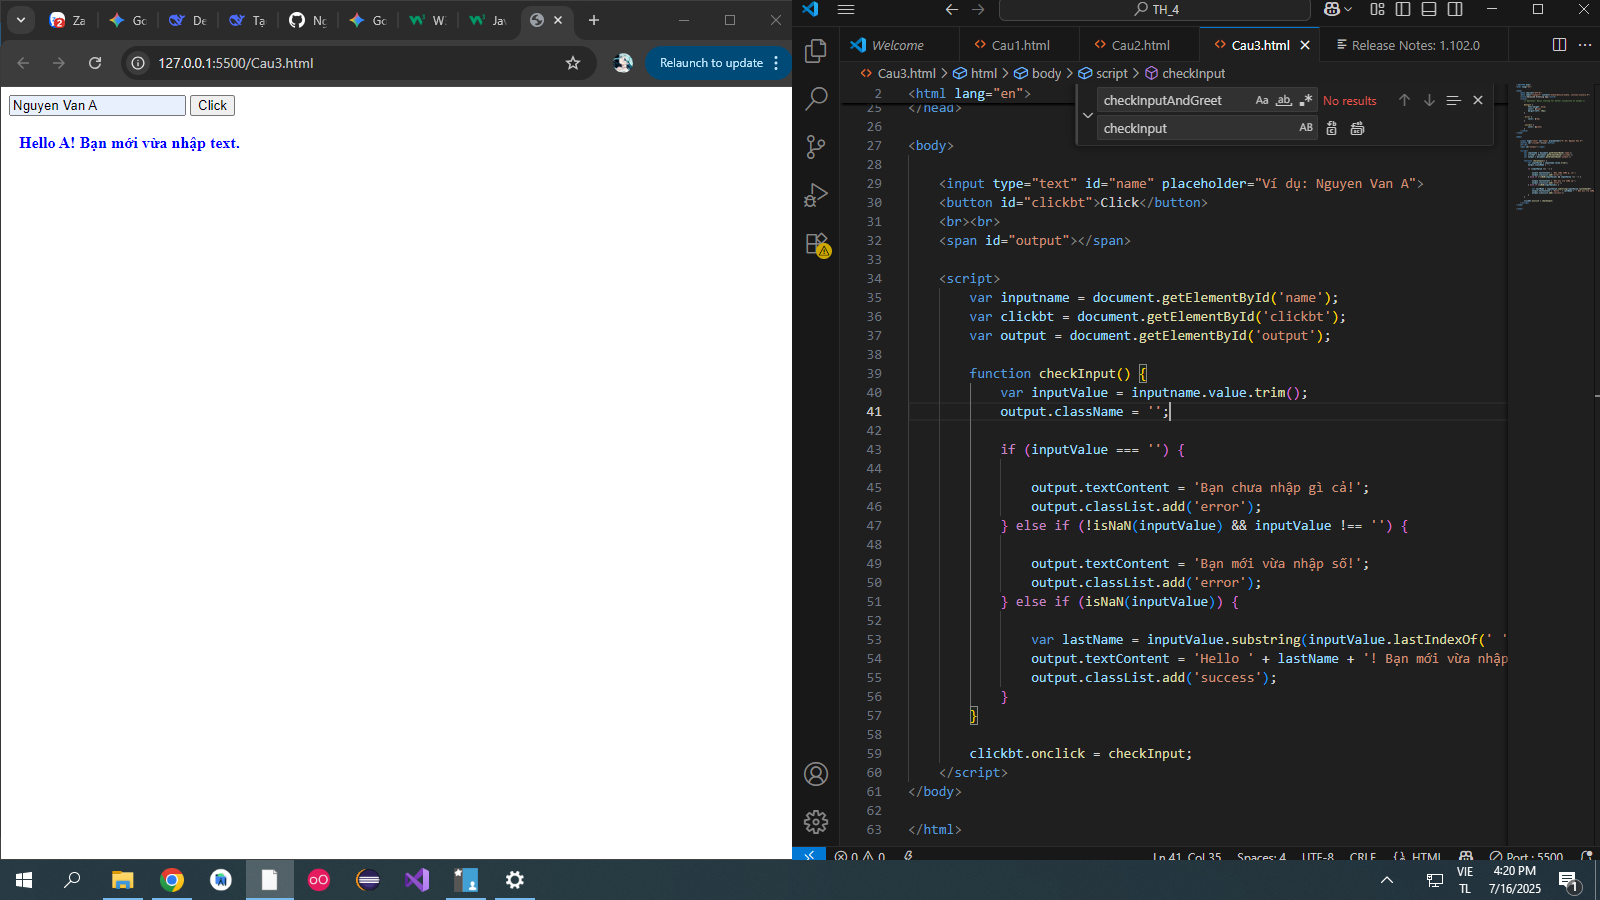
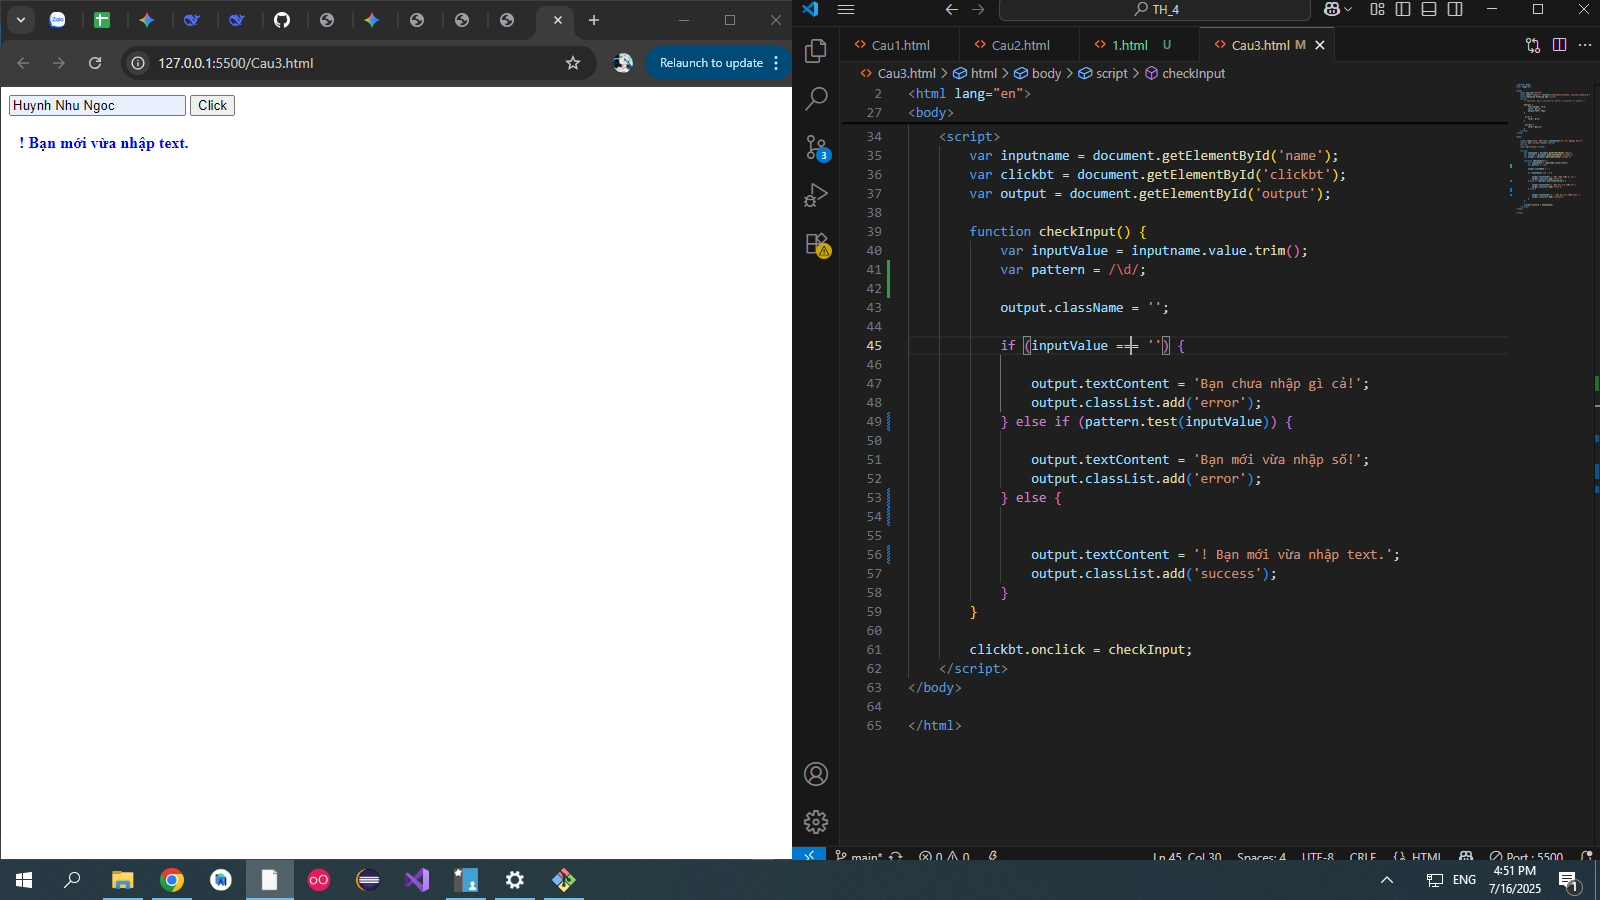
Cau3 + MC

diff --git a/1.html b/1.html
@@ -1,0 +1,70 @@
+<!DOCTYPE html>
+<html lang="en">
+
+<head>
+    <meta charset="UTF-8">
+    <meta name="viewport" content="width=device-width, initial-scale=1.0">
+    <title>Sum Two Numbers</title>
+    <style>
+        /* Optional basic styling for better appearance */
+        
+        body {
+            font-family: Arial, sans-serif;
+            margin: 50px;
+            text-align: center;
+        }
+        
+        input,
+        button {
+            padding: 10px;
+            margin: 10px;
+            font-size: 16px;
+        }
+        
+        #result {
+            margin-top: 20px;
+            font-size: 20px;
+            font-weight: bold;
+            color: blue;
+        }
+    </style>
+</head>
+
+<body>
+    <h1>Calculate the Sum of Two Numbers</h1>
+
+    <label for="number1">Number 1:</label>
+    <input type="number" id="number1" value="0"><br>
+
+    <label for="number2">Number 2:</label>
+    <input type="number" id="number2" value="0"><br>
+
+    <button onclick="calculateSum()">Calculate Sum</button>
+
+    <div id="result"></div>
+
+    <script>
+        function calculateSum() {
+            // Get the values from the input fields
+            const num1 = parseFloat(document.getElementById('number1').value);
+            const num2 = parseFloat(document.getElementById('number2').value);
+
+            // Check if the inputs are valid numbers
+            if (isNaN(num1) || isNaN(num2)) {
+                alert("Please enter valid numbers in both fields.");
+                return;
+            }
+
+            // Calculate the sum
+            const sum = num1 + num2;
+
+            // Display the sum in the console
+            console.log("The sum of " + num1 + " and " + num2 + " is: " + sum);
+
+            // Display the sum on the webpage
+            document.getElementById('result').innerText = "The sum is: " + sum;
+        }
+    </script>
+</body>
+
+</html>

diff --git a/Cau3.html b/Cau3.html
@@ -38,20 +38,22 @@
 
         function checkInput() {
             var inputValue = inputname.value.trim();
+            var pattern = /\d/;
+
             output.className = '';
 
             if (inputValue === '') {
 
                 output.textContent = 'Bạn chưa nhập gì cả!';
                 output.classList.add('error');
-            } else if (!isNaN(inputValue) && inputValue !== '') {
+            } else if (pattern.test(inputValue)) {
 
                 output.textContent = 'Bạn mới vừa nhập số!';
                 output.classList.add('error');
-            } else if (isNaN(inputValue)) {
+            } else {
 
-                var lastName = inputValue.substring(inputValue.lastIndexOf(' ') + 1);
-                output.textContent = 'Hello ' + lastName + '! Bạn mới vừa nhập text.';
+
+                output.textContent = '! Bạn mới vừa nhập text.';
                 output.classList.add('success');
             }
         }
